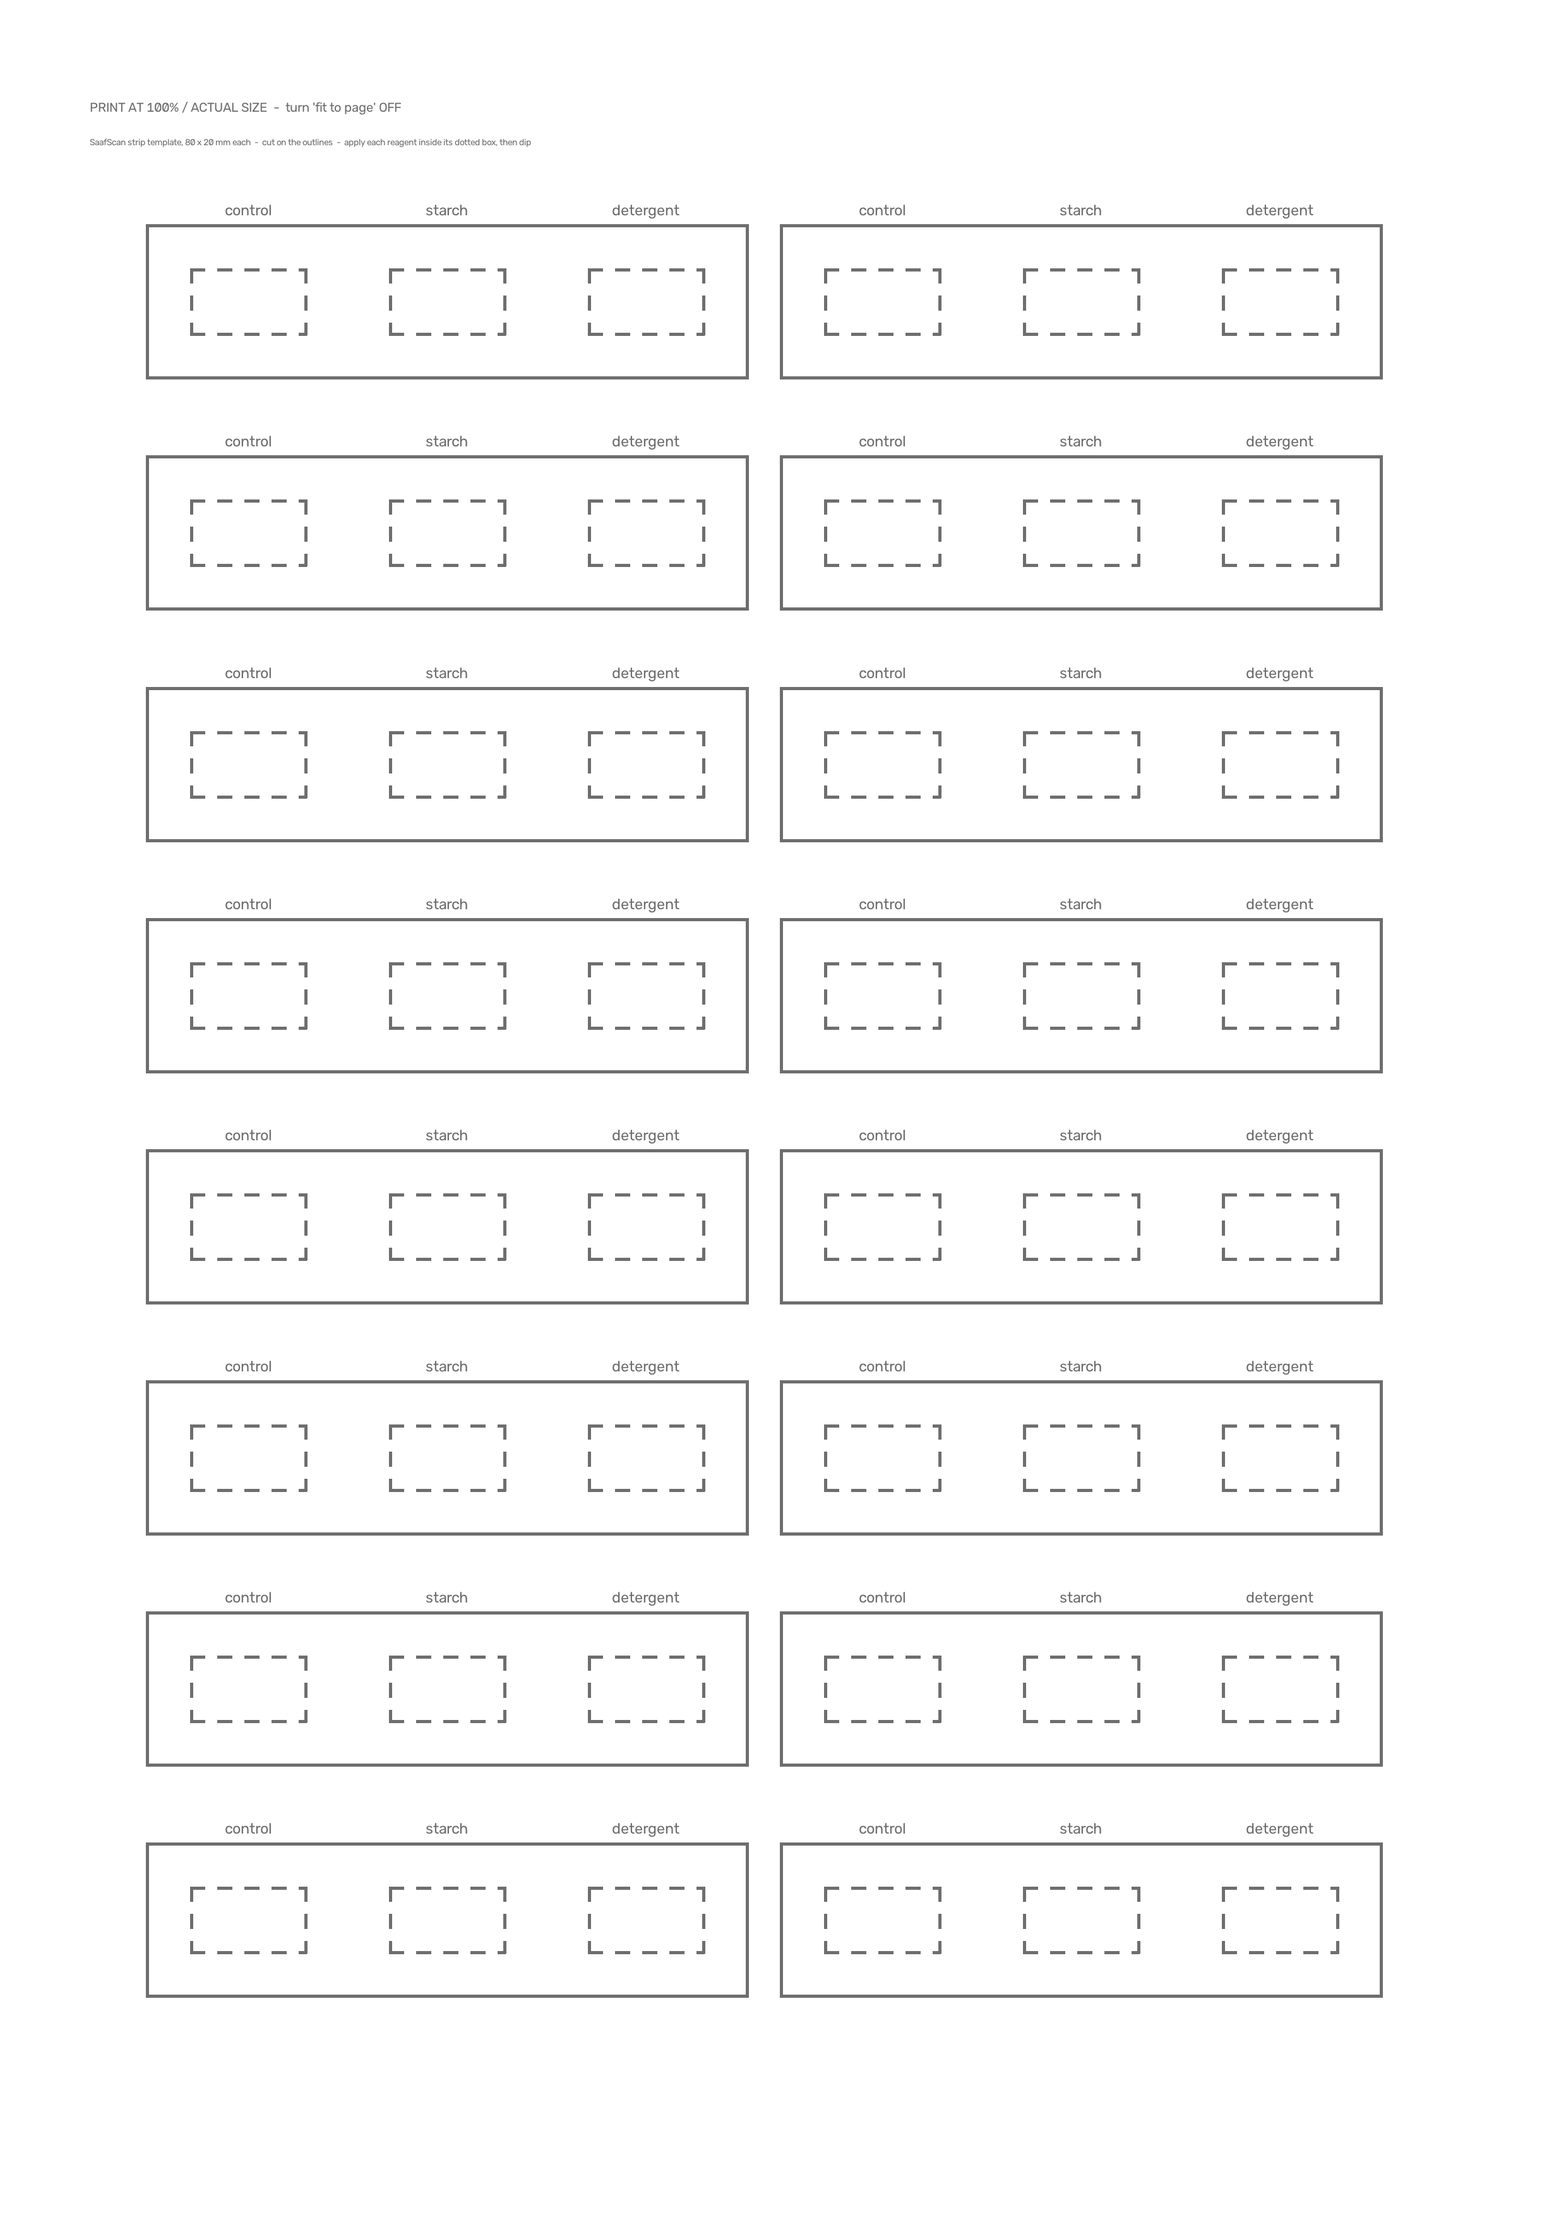
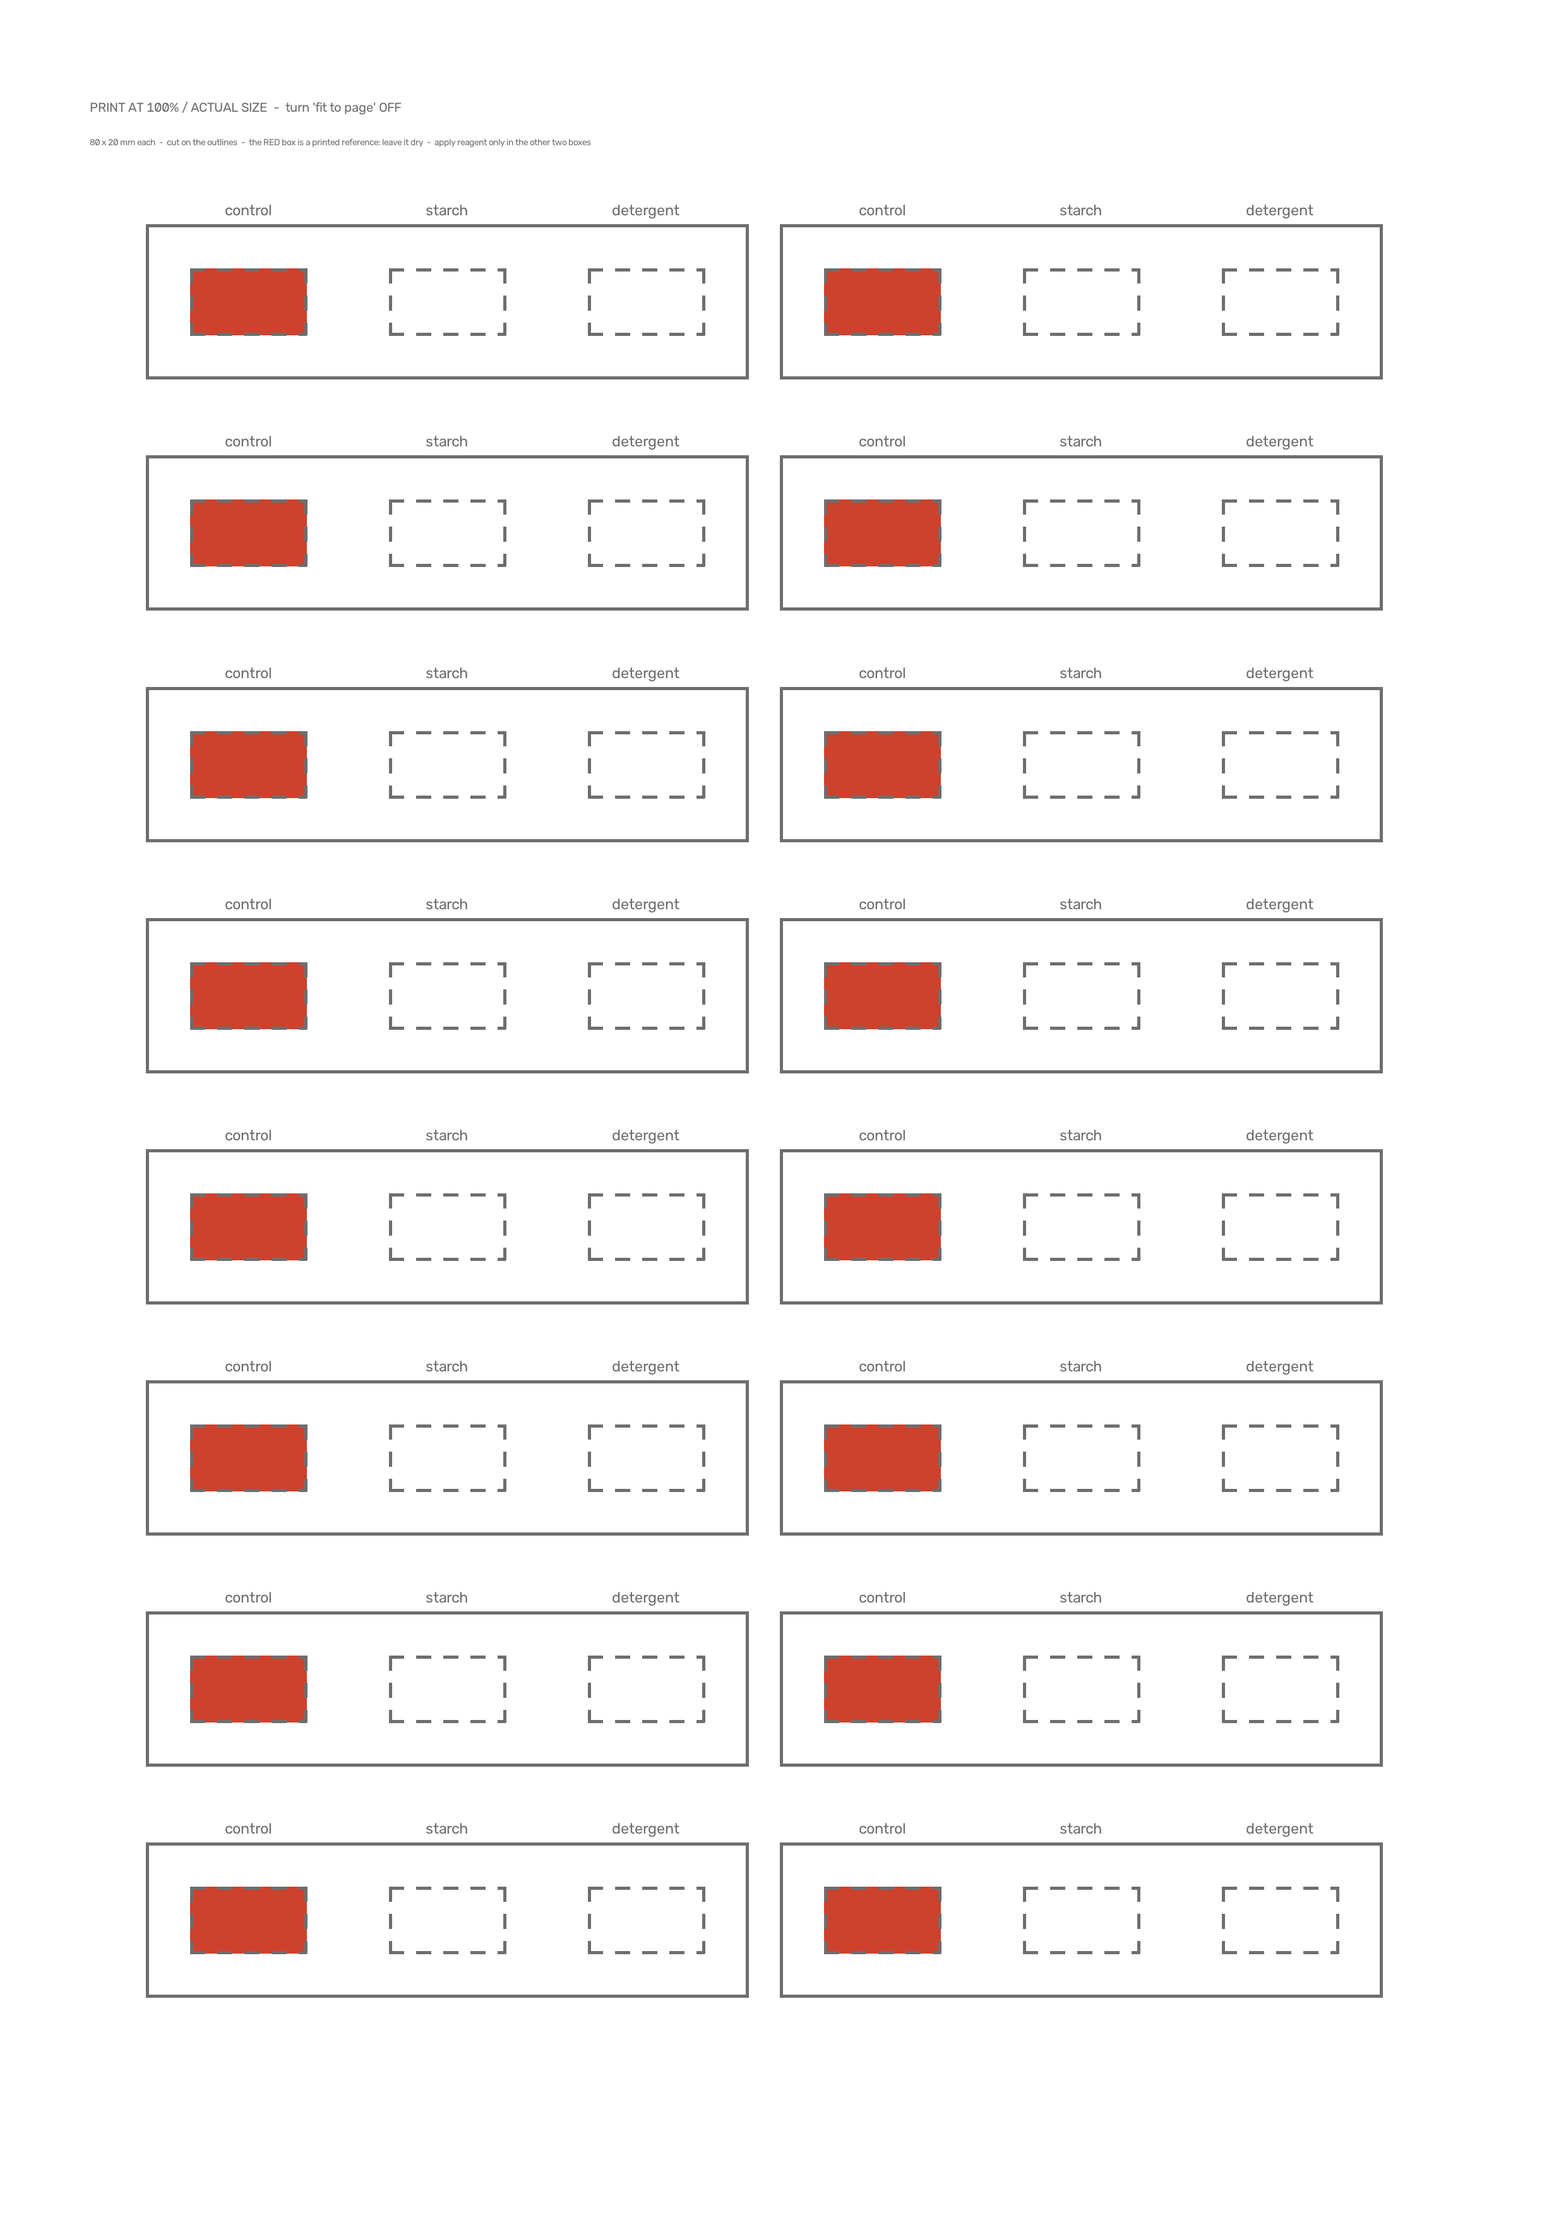
feat: print the control zone solid so it needs no reagent
The control box was an aiming outline, which meant an operator had to load a
zone that never reacts — and forget it once and the strip is refused. photo4
priced that: with no control mark the window read blank paper, deltaE 79.8
against nominal, and the verdict was inconclusive before the chemistry was
ever considered.

Fill it solid instead. The colour is ZONE_NOMINAL["control"], imported rather
than chosen, so the printed patch and the classifier's guard agree by
construction — print a control classify_zones does not recognise and every
strip refuses. Starch and detergent stay bare outlines: ink inside a window
the pipeline averages is exactly the bias the proud squares exist to prevent,
so test_printing_a_strip_cannot_change_a_zone_reading is split into the two
specifications it was really carrying, plus a drift guard on the constant.

Sheet header and README now say the red box is a reference, not a target, so
nobody pipettes iodine into it.

255 passed, ruff clean.

diff --git a/src/saafscan/printstrip.py b/src/saafscan/printstrip.py
@@ -7,11 +7,15 @@ and the rule table answered `both` with 0.71 confidence for a strip that had
 never held detergent. Nobody can place drops to ±4 mm by eye, so the placement
 has to be printed rather than remembered.
 
-These are three dotted squares, one per zone, at the millimetres
-:func:`saafscan.roi.zones_from_strip` actually averages. The squares sit half a
+Two of the boxes are dotted squares, one per reagent, at the millimetres
+:func:`saafscan.roi.zones_from_strip` actually averages. They sit half a
 millimetre *proud* of each measurement window: reagent applied inside a square
 is guaranteed to cover the band, while no ink falls inside it to bias the mean
 colour the verdict is computed from.
+
+The third box, the control, is printed solid instead — see ``CONTROL_COLOUR``.
+It holds no reagent at all. It is a reference patch, so it carries the
+classifier's own nominal colour by construction and needs no dye.
 
 Print at **100 % / actual size** and disable "fit to page" — every dimension
 here is a millimetre, and a scaled print moves the squares off the strip.
@@ -28,7 +32,12 @@ from pathlib import Path
 import cv2
 import numpy as np
 
-from saafscan.roi import STRIP_PHYSICAL_MM, ZONE_NAMES, zone_window_mm
+from saafscan.roi import (
+    STRIP_PHYSICAL_MM,
+    ZONE_NAMES,
+    ZONE_NOMINAL,
+    zone_window_mm,
+)
 
 # A4 portrait, mm.
 SHEET_MM: tuple[float, float] = (210.0, 297.0)
@@ -43,10 +52,20 @@ GAP_MM = 1.6
 DEFAULT_DPI = 300
 INK = np.array([110, 110, 110], dtype=np.uint8)
 
+# The control box is printed solid rather than left as an aiming outline. It is
+# the reference classify_zones measures against, so it is filled with that
+# reference rather than a colour chosen here: print a control the guard does not
+# recognise and every strip is refused as inconclusive. Left as an outline it is
+# also a zone an operator must remember to load, and photo4 priced that — with no
+# control mark the window read blank paper, deltaE 79.8 against nominal, and the
+# strip was refused before its chemistry was ever considered.
+CONTROL_ZONE = ZONE_NAMES[0]
+CONTROL_COLOUR = ZONE_NOMINAL[CONTROL_ZONE]
+
 _HEADER = (
     "PRINT AT 100% / ACTUAL SIZE  -  turn 'fit to page' OFF",
-    "SaafScan strip template, 80 x 20 mm each  -  cut on the outlines  "
-    "-  apply each reagent inside its dotted box, then dip",
+    "80 x 20 mm each  -  cut on the outlines  -  the RED box is a printed "
+    "reference: leave it dry  -  apply reagent only in the other two boxes",
 )
 
 
@@ -89,14 +108,21 @@ def strips_per_sheet() -> int:
     return cols * rows
 
 
-def _stroke(image: np.ndarray, x0: float, y0: float, x1: float, y1: float) -> None:
-    """Draw an axis-aligned mark, clamped to the canvas."""
+def _fill(
+    image: np.ndarray, x0: float, y0: float, x1: float, y1: float, rgb: tuple[int, int, int]
+) -> None:
+    """Paint an axis-aligned block, clamped to the canvas."""
     height, width = image.shape[:2]
     left = max(0, min(int(round(x0)), width - 1))
     right = max(left + 1, min(int(round(x1)), width))
     top = max(0, min(int(round(y0)), height - 1))
     bottom = max(top + 1, min(int(round(y1)), height))
-    image[top:bottom, left:right] = INK
+    image[top:bottom, left:right] = rgb
+
+
+def _stroke(image: np.ndarray, x0: float, y0: float, x1: float, y1: float) -> None:
+    """Draw an axis-aligned mark in the template ink."""
+    _fill(image, x0, y0, x1, y1, INK)
 
 
 def _dotted_box(image: np.ndarray, x0: float, y0: float, x1: float, y1: float, sx: float) -> None:
@@ -122,11 +148,15 @@ def _dotted_box(image: np.ndarray, x0: float, y0: float, x1: float, y1: float, s
 
 
 def render_strip(width_px: int, height_px: int) -> np.ndarray:
-    """One strip's artwork: white paper and three dotted aiming squares.
+    """One strip's artwork: white paper, two dotted aiming squares, one solid one.
 
     Nothing else is drawn on the strip itself. Labels and cut outlines belong to
     :func:`render_sheet` because they would be ink sitting in the paper that the
     milk can dissolve and the camera can then read back as reaction colour.
+
+    The control box is filled solid and the two reagent boxes are not, which is
+    the whole asymmetry: reagent goes in the empty ones, nothing goes in the red
+    one, and the red one is already exactly what the classifier expects to see.
     """
     if width_px <= 0 or height_px <= 0:
         raise ValueError("strip dimensions must be positive pixels")
@@ -134,7 +164,14 @@ def render_strip(width_px: int, height_px: int) -> np.ndarray:
     strip = np.full((height_px, width_px, 3), 255, dtype=np.uint8)
     sx = width_px / STRIP_PHYSICAL_MM[1]
     sy = height_px / STRIP_PHYSICAL_MM[0]
-    for x0, x1, y0, y1 in zone_windows_proud().values():
+    for name, (x0, x1, y0, y1) in zone_windows_proud().items():
+        # Fill the proud box rather than the window. Half a millimetre of
+        # misalignment still lands entirely on solid colour, so the reference
+        # stays stable; past that the reading degrades sharply, which is the
+        # guard working — a strip that far out of position cannot have its
+        # other two zones trusted either.
+        if name == CONTROL_ZONE:
+            _fill(strip, x0 * sx, y0 * sy, x1 * sx, y1 * sy, CONTROL_COLOUR)
         _dotted_box(strip, x0 * sx, y0 * sy, x1 * sx, y1 * sy, sx)
     return np.ascontiguousarray(strip)
 
@@ -254,7 +291,7 @@ def main(argv: list[str] | None = None) -> int:
         f"{STRIP_PHYSICAL_MM[1]:g} x {STRIP_PHYSICAL_MM[0]:g} mm"
     )
     print("PRINT AT 100% / ACTUAL SIZE with 'fit to page' OFF — scaled print moves the squares")
-    print("cut on the outlines, apply each reagent inside its dotted box, then dip")
+    print("cut on the outlines; leave the red reference box dry; dip the whole strip")
     return 0
 
 

diff --git a/tests/test_printstrip.py b/tests/test_printstrip.py
@@ -19,6 +19,8 @@ from math import ceil, floor
 import numpy as np
 
 from saafscan.printstrip import (
+    CONTROL_COLOUR,
+    CONTROL_ZONE,
     DEFAULT_DPI,
     PROUD_MM,
     SHEET_MM,
@@ -29,22 +31,54 @@ from saafscan.printstrip import (
     strip_size_px,
     zone_windows_proud,
 )
-from saafscan.roi import STRIP_PHYSICAL_MM, zone_window_mm, zones_from_strip
+from saafscan.roi import (
+    STRIP_PHYSICAL_MM,
+    ZONE_NAMES,
+    ZONE_NOMINAL,
+    zone_window_mm,
+    zones_from_strip,
+)
 
 ZONES = ("control", "starch", "detergent")
 
 
-def test_printing_a_strip_cannot_change_a_zone_reading() -> None:
+def test_the_reagent_windows_stay_pure_paper() -> None:
     """No ink may fall inside a window the pipeline averages.
 
     zones_from_strip takes the mean colour of each window, so an outline drawn
     inside it would bias that mean and quietly shift the verdict. The squares
     are drawn proud of the window instead, which keeps the artwork out of the
     measurement while still showing an operator where to aim.
+
+    Control is exempt by design: it is printed solid, and there the ink *is*
+    the measurement. See the next test.
     """
     zones = zones_from_strip(render_strip(*strip_size_px()))
-    for name in ZONES:
+    for name in ("starch", "detergent"):
         np.testing.assert_allclose(zones[name], (255.0, 255.0, 255.0), atol=0.5, err_msg=name)
+
+
+def test_the_control_window_is_the_printed_reference_colour() -> None:
+    """The control box is printed solid in the colour the guard compares against.
+
+    A control zone loaded by hand is a control zone sometimes not loaded at
+    all, and photo4 proved the cost: with no control mark the window read blank
+    paper, a deltaE of 79.8 against nominal, and the strip was refused before
+    its chemistry was ever considered. Printing the control makes the reference
+    present on every strip by construction.
+
+    It must be ZONE_NOMINAL specifically, not merely some red, because that is
+    the colour classify_zones measures against. Print a control it does not
+    recognise and every strip refuses.
+    """
+    zones = zones_from_strip(render_strip(*strip_size_px()))
+    np.testing.assert_allclose(zones[CONTROL_ZONE], CONTROL_COLOUR, atol=0.5, err_msg=CONTROL_ZONE)
+
+
+def test_the_printed_control_is_named_and_coloured_consistently() -> None:
+    """Guards against the printed control drifting away from the classifier."""
+    assert CONTROL_ZONE in ZONE_NAMES
+    assert CONTROL_COLOUR == ZONE_NOMINAL[CONTROL_ZONE]
 
 
 def test_each_square_covers_the_window_it_aims_at() -> None:

diff --git a/README.md b/README.md
@@ -205,7 +205,7 @@ Procurement list (non-code items the live demo needs):
 |---|---|---|---|
 | 1 | **Iodine solution** (tincture/Lugol's, dilute) | starch test — blue-black complex | pharmacy / lab supplier; keep away from eyes; carry in a sealed small bottle |
 | 2 | **Methylene blue** solution | detergent test — decolourisation | lab chemical supplier; small quantity only |
-| 3 | **Strips / paper material** (filter paper or chromatography paper, cut to strip size) | reagent carrier | cut **20 × 80 mm (4:1)** — the detector's aspect gate is 2.5–9.0 and `STRIP_SIZE` is 360×90, so 4:1 matches the trained geometry; 8×80 is aspect 10 and is rejected. **Print `assets/strip_template.png` at 100% to get sixteen at a time**, each with its three zones already marked. Lay the strip **lengthways, long edge left-to-right**: a strip laid end-to-end down the frame is refused rather than misread. ~20 strips for the day |
+| 3 | **Strips / paper material** (filter paper or chromatography paper, cut to strip size) | reagent carrier | cut **20 × 80 mm (4:1)** — the detector's aspect gate is 2.5–9.0 and `STRIP_SIZE` is 360×90, so 4:1 matches the trained geometry; 8×80 is aspect 10 and is rejected. **Print `assets/strip_template.png` at 100% to get sixteen at a time**, each with a printed red control reference plus two dotted reagent boxes — leave the red box dry. Lay the strip **lengthways, long edge left-to-right**: a strip laid end-to-end down the frame is refused rather than misread. ~20 strips for the day |
 | 4 | **Printed colour calibration card** | white-balance + ΔE reference | print on matte photo paper, never glossy (glare breaks detection); ≥2 spares. **Which way up it lies no longer matters** — detection checks all four rotations, so a judge can pick it up and put it down at any angle |
 | 5 | **Samples**: pure milk, milk + starch (known amount), milk + detergent, + one venue beverage | judge-picks demo | prepare fresh on 23 Oct in labelled cups; bring iodine/starch control |
 | 6 | **Second phone (backup)** | camera failure fallback | pre-tested with the app before leaving |
@@ -229,10 +229,11 @@ the first time the pipeline sees your room.
 
     python -m saafscan.printstrip --out strip_template.png
 
-`assets/strip_template.png` already contains it: sixteen strips per A4, each
-carrying three dotted squares labelled *control / starch / detergent*. Print at
-**100 % / actual size** with "fit to page" off, cut on the outlines, apply each
-reagent inside its box, then dip. One sheet is a whole day of samples.
+`assets/strip_template.png` already contains it: sixteen strips per A4. The
+**red box is a printed reference patch — leave it dry.** Only the two dotted
+boxes take reagent, one each. Print at **100 % / actual size** with "fit to page"
+off, cut on the outlines, then dip the whole strip. One sheet is a whole day of
+samples.
 
 The strip is read as three equal thirds — 0–26.7, 26.7–53.3 and 53.3–80 mm on an
 80 mm strip — and each third is sampled only across its **middle 55 %**, so the
@@ -241,6 +242,14 @@ sit 0.5 mm *proud* of those bands, which is the whole point: reagent inside a
 square is guaranteed to cover the window, while no ink falls inside it to bias
 the mean colour the verdict is computed from. `saafscan.printstrip` derives them
 from `roi.zone_window_mm`, so the artwork cannot drift away from the detector.
+
+The red box is the exception, and is filled solid because there the ink *is* the
+measurement. It carries `ZONE_NOMINAL["control"]` — the exact colour
+`classify_zones` measures the control band against — so the reference is present
+on every strip by construction. Loading it by hand is what `photo4.jpeg` priced:
+with no control mark the window read blank paper, ΔE 79.8 against nominal, and
+the strip was refused before its chemistry was ever considered. Printing it also
+means no reagent is spent on the one zone that never reacts.
 
 Colour placed at 10 / 25 / 42 mm reads back **one zone shifted**: the marking
 meant for the detergent zone falls inside the starch band, and the detergent
